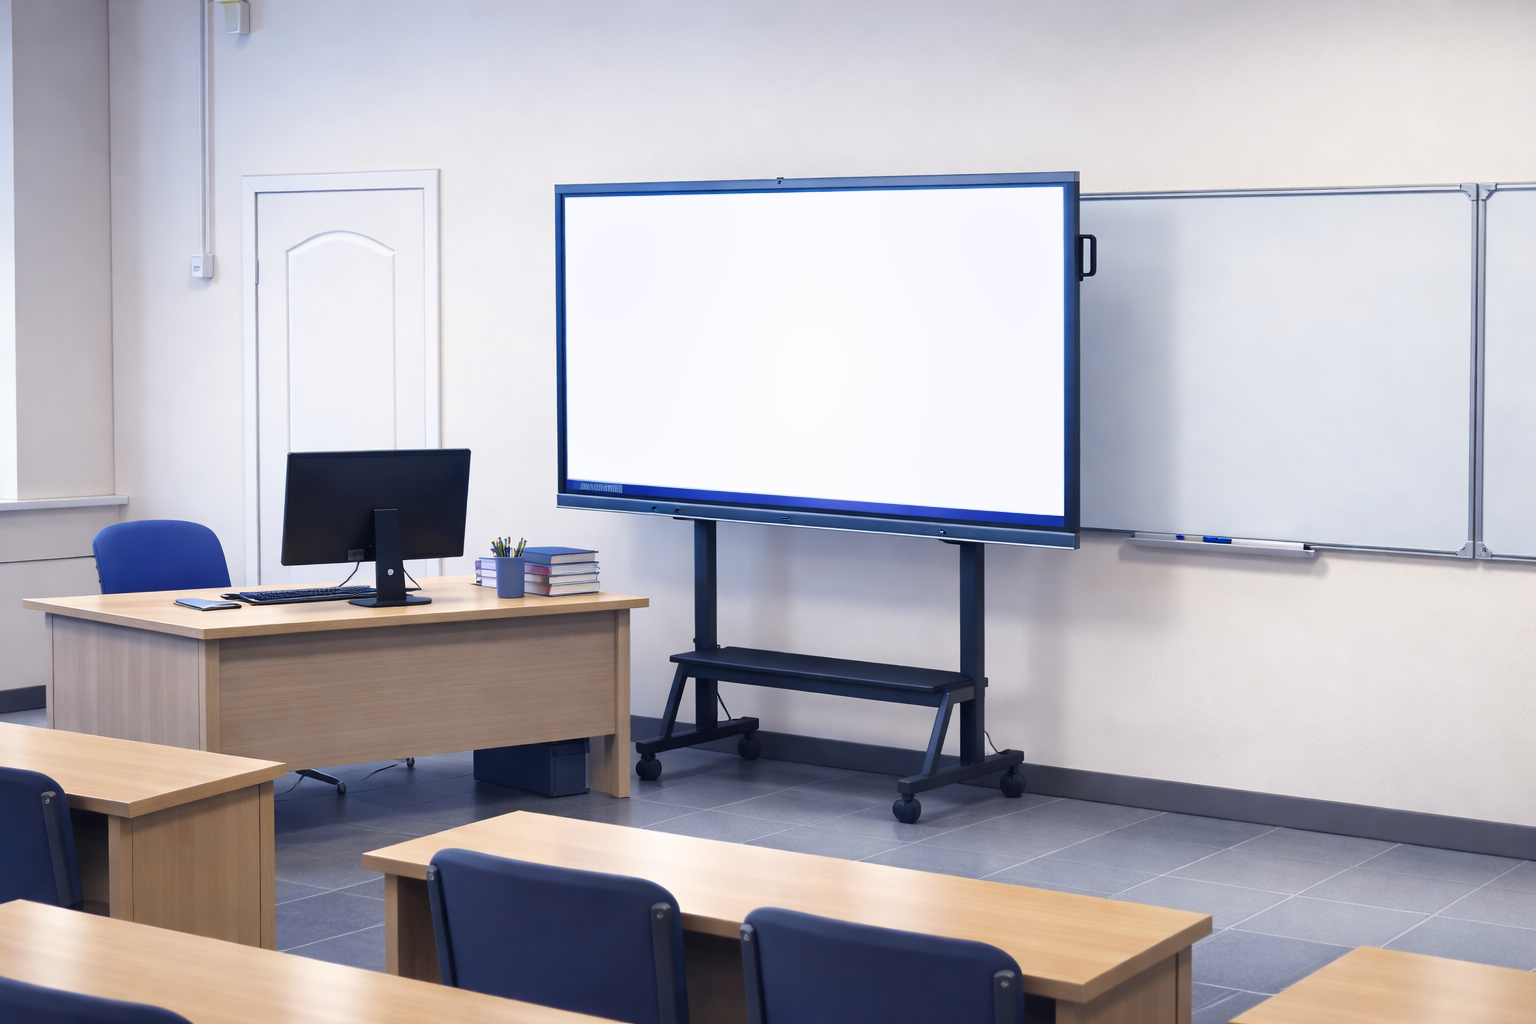
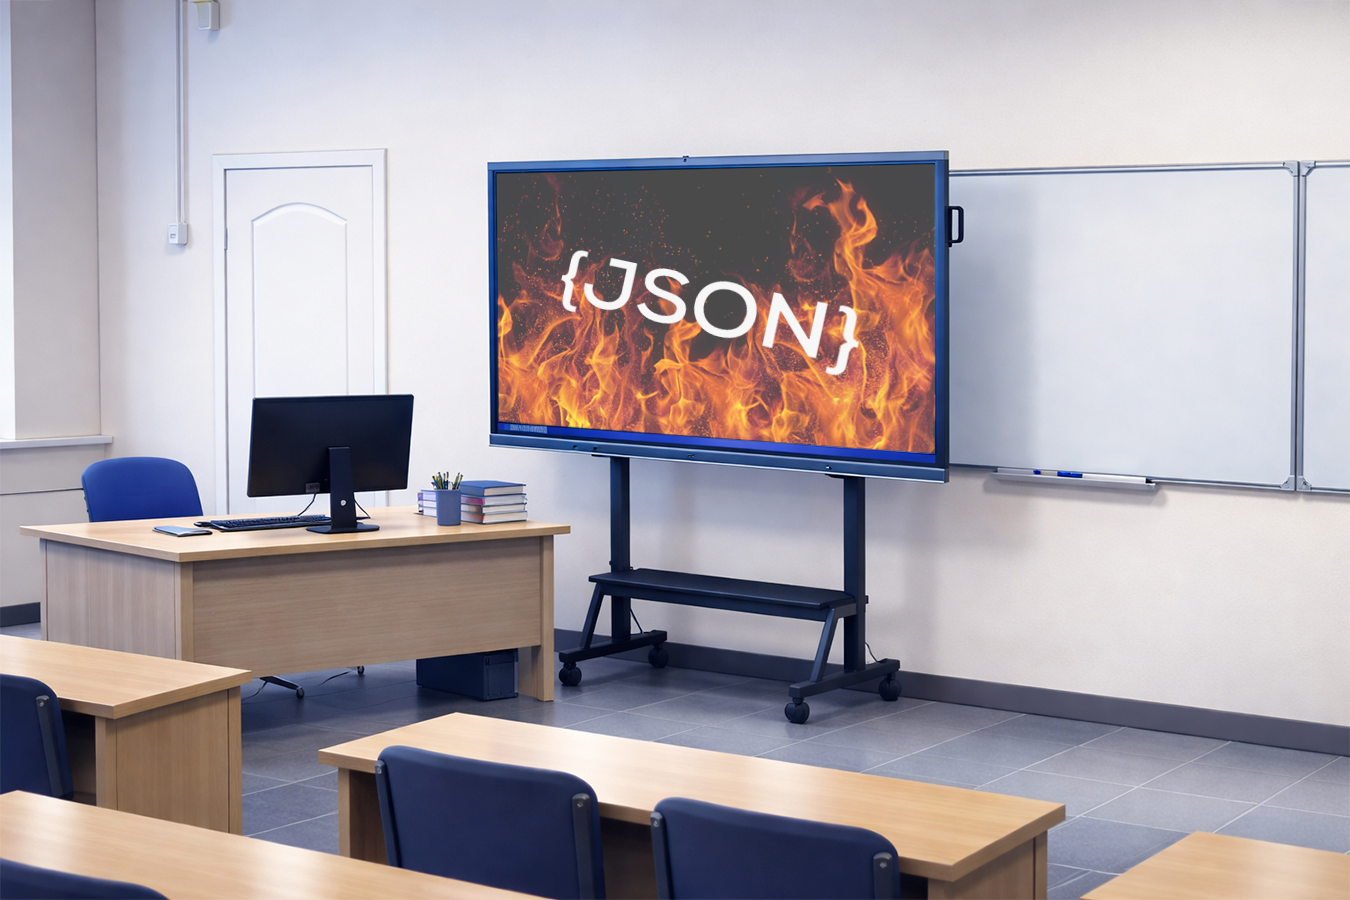
Пачте)

Changed region(s): [[0.3422, 0.1556, 0.7156, 0.5289]]

diff --git a/progahell/MainWindow.xaml b/progahell/MainWindow.xaml
@@ -34,6 +34,8 @@
         <Grid x:Name="EndingOverlay" Visibility="Collapsed" Panel.ZIndex="100">
             <Image x:Name="EndingBackground" Stretch="UniformToFill" Source="Elements/Background_Credits.png"/>
             <Button x:Name="BackToMenuButton" Content="В МЕНЮ" 
+            Style="{StaticResource NextButtonStyle}"
+            Height="80"
             HorizontalAlignment="Center" VerticalAlignment="Bottom" 
             Margin="0,0,0,50" Padding="20,10" FontSize="20"
             Click="BackToMenuButton_Click" Visibility="Collapsed"/>
@@ -109,7 +111,7 @@
 
                             <Grid Grid.Row="2" HorizontalAlignment="Right" VerticalAlignment="Bottom">
                                 <Button x:Name="NextButton" Width="200" Height="90"
-                            Content="NEXT"
+                            Content="ДАЛЕЕ"
                             Click="Next_Click"
                             Visibility="Visible"
                             Style="{StaticResource NextButtonStyle}"

diff --git a/progahell/MainWindow.xaml.cs b/progahell/MainWindow.xaml.cs
@@ -323,7 +323,11 @@ namespace progahell
             currentDialogueIndex = 0;
             isShowingChoices = false;
 
-            sceneManager.Start("start");
+            EndingOverlay.Visibility = Visibility.Collapsed;
+            BackToMenuButton.Visibility = Visibility.Collapsed;
+
+            StartOverlay.Visibility = Visibility.Visible;
+            StartGameButton.Visibility = Visibility.Visible;
         }
 
         //=============================================================================== КЛИКИ
@@ -376,9 +380,6 @@ namespace progahell
 
         private void BackToMenuButton_Click(object sender, RoutedEventArgs e)
         {
-            EndingOverlay.Visibility = Visibility.Collapsed;
-            BackToMenuButton.Visibility = Visibility.Collapsed;
-
             RestartGame();
         }
 
